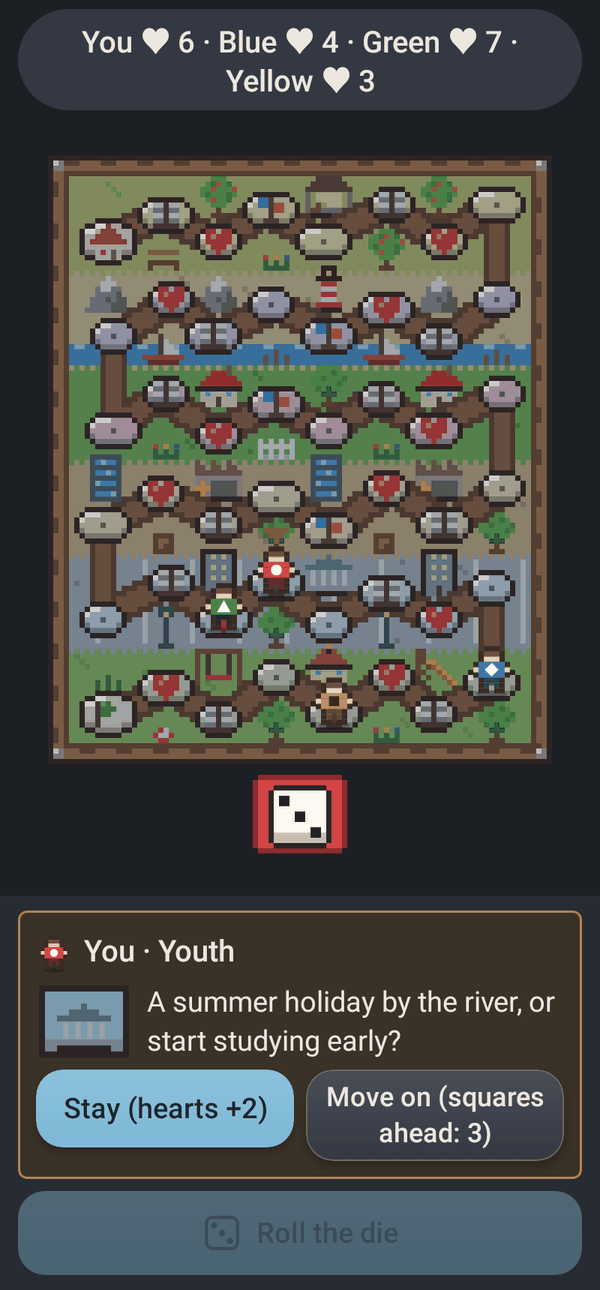
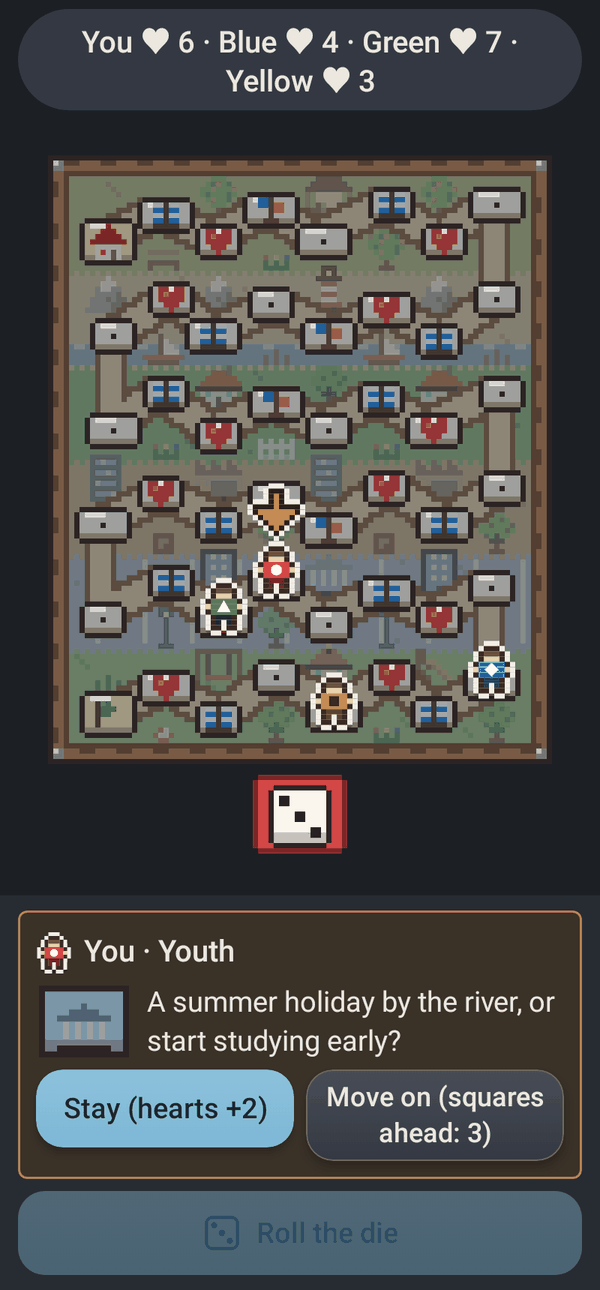
fix(trail): make the board's pawns, path and scenery easy to tell apart (#92)
The scenery steps back, the path and its squares read as one stone trail, pawns get a light outline, and the turn marker is a bold amber arrow that bobs gently, following the Movement setting.

Closes #85

Changed region(s): [[0.12, 0.124, 0.9, 0.5891], [0.12, 0.5271, 0.3, 0.5891], [0.06, 0.7132, 0.12, 0.7752]]

diff --git a/app/src/main/java/io/github/fershibli/megagames/games/trail/TrailPixels.kt b/app/src/main/java/io/github/fershibli/megagames/games/trail/TrailPixels.kt
@@ -4,6 +4,7 @@ import androidx.compose.ui.geometry.Offset
 import androidx.compose.ui.geometry.Size
 import androidx.compose.ui.graphics.Color
 import androidx.compose.ui.graphics.drawscope.DrawScope
+import androidx.compose.ui.graphics.lerp
 import io.github.fershibli.megagames.core.ColorMode
 import io.github.fershibli.megagames.games.ludo.ludoColor
 import io.github.fershibli.megagames.ui.art.PixelArt
@@ -101,20 +102,38 @@ object TrailMap {
 
 private const val INK = "o=3B2A20"
 
-/** The ground of each landscape, from childhood to the quiet years. */
+/**
+ * The ground of each landscape, from childhood to the quiet years. Soft, muted middle tones, so
+ * the light path and the bright pawns stand out on them.
+ */
 private val GROUND = listOf(
-    Color(0xFF9CCC65), // playground grass
-    Color(0xFFB7C4CC), // city pavement
-    Color(0xFFD9C08E), // sandy yard of the workshop
-    Color(0xFF7FBF55), // garden lawn
-    Color(0xFFE6D3A0), // beach sand
-    Color(0xFFC9CF73), // orchard meadow
+    Color(0xFFA3BD86), // playground grass
+    Color(0xFFAAB4BA), // city pavement
+    Color(0xFFC2AE88), // sandy yard of the workshop
+    Color(0xFF93B27E), // garden lawn
+    Color(0xFFCBBE98), // beach sand
+    Color(0xFFB4B883), // orchard meadow
 )
 
-/** The color of the squares of each stage. */
-private val SQUARE_FILL = listOf(
-    Color(0xFFE6F4D2), Color(0xFFD7F0FC), Color(0xFFFFE9C9), Color(0xFFFBD3E1), Color(0xFFE3DAF2), Color(0xFFFFF7B8),
-)
+/**
+ * The path and its squares are one trail of the same pale stone: a walkway with a dark edge, and
+ * the squares as slightly lighter slabs laid on it.
+ */
+private val SLAB_EDGE = Color(0xFF3B2A20)
+private val PATH_EDGE = Color(0xFF8A6A4A)
+private val PATH = Color(0xFFDCC8A2)
+private val SLAB = Color(0xFFFBF4E4)
+private val SLAB_SPECIAL = Color(0xFFFFE7A3)
+
+/** How far the scenery fades into its ground: the pictures stay readable but calm, behind the path. */
+private const val RECEDE = 0.42f
+
+/** [color] made calmer and closer to [ground]: less saturated, less contrast. */
+private fun recede(color: Color, ground: Color): Color {
+    val grey = color.red * 0.3f + color.green * 0.59f + color.blue * 0.11f
+    val calm = lerp(color, Color(grey, grey, grey, color.alpha), 0.35f)
+    return lerp(calm, ground, RECEDE).copy(alpha = color.alpha)
+}
 
 object TrailSprites {
     val heart = pixelArt(
@@ -126,7 +145,7 @@ object TrailSprites {
         "..r..",
     )
     val book = pixelArt(
-        "w=FFFFFF l=9E9E9E s=5D4037",
+        "w=FFFFFF l=1E88E5 s=5D4037",
         "wwsww",
         "llsll",
         "wwsww",
@@ -408,10 +427,11 @@ object TrailSprites {
         "od..do.",
         "oo...oo",
     )
-    private val people = HashMap<Pair<Color, Boolean>, PixelArt>()
+    private val people = HashMap<Triple<Color, Boolean, Color>, PixelArt>()
+    private val halos = HashMap<Pair<PixelArt, Color>, PixelArt>()
 
     fun person(color: Color, walking: Boolean, outline: Color): PixelArt = synchronized(people) {
-        people.getOrPut(color to walking) {
+        people.getOrPut(Triple(color, walking, outline)) {
             val palette = mapOf(
                 'o' to outline, 'h' to Color(0xFF6D4C41), 's' to Color(0xFFF2C29B),
                 'c' to color, 'd' to color.darker(0.45f),
@@ -420,32 +440,51 @@ object TrailSprites {
         }
     }
 
+    /** The outline of [art] in one [color]: drawn a dot around a pawn, it lifts it off the board. */
+    fun halo(art: PixelArt, color: Color): PixelArt = synchronized(halos) {
+        halos.getOrPut(art to color) { art.recolored { color } }
+    }
+
+    /** The arrow over the pawn whose turn it is: bold, with a dark edge, pointing down. */
+    private val ARROW = listOf(
+        "...ooo...",
+        "...oyo...",
+        "...o#o...",
+        "oooo#oooo",
+        "oyyyyyyyo",
+        ".oyy#yyo.",
+        "..oy#yo..",
+        "...oyo...",
+        "....o....",
+    )
+    private val arrows = HashMap<Pair<Color, Color>, PixelArt>()
+
+    fun arrow(fill: Color, edge: Color): PixelArt = synchronized(arrows) {
+        arrows.getOrPut(fill to edge) { pixelArt(ARROW, mapOf('o' to edge, 'y' to fill, '#' to fill.darker(0.18f))) }
+    }
+
+    const val ARROW_W = 9
+    const val ARROW_H = 9
+
     const val PERSON_W = 7
     const val PERSON_H = 9
 }
 
-/** An oval square of the path, built once per size and color. */
-private val ovals = HashMap<String, PixelArt>()
+/** A square of the path: a stone slab with rounded corners, built once per size and color. */
+private val slabs = HashMap<String, PixelArt>()
 
-private fun oval(w: Int, h: Int, fill: Color, rim: Color, shade: Color, shine: Color): PixelArt {
+private fun slab(w: Int, h: Int, fill: Color, rim: Color, shade: Color, shine: Color): PixelArt {
     val key = "$w $h ${fill.value} ${rim.value}"
-    return synchronized(ovals) {
-        ovals.getOrPut(key) {
-            val inside = Array(h) { y ->
-                BooleanArray(w) { x ->
-                    val dx = (x + 0.5f - w / 2f) / (w / 2f)
-                    val dy = (y + 0.5f - h / 2f) / (h / 2f)
-                    dx * dx + dy * dy <= 1.08f
-                }
-            }
-            fun at(x: Int, y: Int) = x in 0 until w && y in 0 until h && inside[y][x]
+    return synchronized(slabs) {
+        slabs.getOrPut(key) {
+            fun corner(x: Int, y: Int) = (x == 0 || x == w - 1) && (y == 0 || y == h - 1)
             val rows = List(h) { y ->
                 String(CharArray(w) { x ->
                     when {
-                        !at(x, y) -> '.'
-                        !at(x - 1, y) || !at(x + 1, y) || !at(x, y - 1) || !at(x, y + 1) -> 'o'
-                        !at(x, y + 2) -> 'd'
-                        !at(x, y - 2) && x < w / 2 -> 'l'
+                        corner(x, y) -> '.'
+                        x == 0 || x == w - 1 || y == 0 || y == h - 1 -> 'o'
+                        y == h - 2 -> 'd'
+                        y == 1 && x in 2..w / 2 -> 'l'
                         else -> 'f'
                     }
                 })
@@ -453,6 +492,13 @@ private fun oval(w: Int, h: Int, fill: Color, rim: Color, shade: Color, shine: C
             pixelArt(rows, mapOf('o' to rim, 'f' to fill, 'd' to shade, 'l' to shine))
         }
     }
+}
+
+/** Scenery pictures faded into the ground of their landscape (see [recede]), built once each. */
+private val receded = HashMap<Pair<PixelArt, Int>, PixelArt>()
+
+private fun recededArt(art: PixelArt, stage: Int): PixelArt = synchronized(receded) {
+    receded.getOrPut(art to stage) { art.recolored { recede(it, GROUND[stage]) } }
 }
 
 // ---------------------------------------------------------------------------------------------
@@ -509,12 +555,13 @@ fun DrawScope.drawTrailBoard(v: TrailView, p: Palette) {
     val w = TrailMap.WIDTH
     val h = TrailMap.HEIGHT
     val f = TrailMap.FRAME
-    // Landscapes, from the bottom up, each with a ragged edge into the next one.
+    // Three layers, from the back: the landscapes (muted, low contrast), the path with its
+    // squares (pale stone with a dark edge) and, drawn later, the pawns (bright, with a light halo).
     for (stage in Stage.entries.indices) {
         val top = TrailMap.bandTop(stage)
         val ground = groundOf(stage, p)
         dots(v, f, top, w - 2 * f, TrailMap.BAND, ground)
-        val speck = ground.darker(0.12f)
+        val speck = ground.darker(0.07f)
         for (n in 0 until 16) {
             val x = f + 1 + (n * 37 + stage * 11) % (w - 2 * f - 2)
             val y = top + 1 + (n * 7 + stage * 5) % (TrailMap.BAND - 2)
@@ -522,12 +569,12 @@ fun DrawScope.drawTrailBoard(v: TrailView, p: Palette) {
         }
         if (stage == 4) {
             // The sea along the bottom of the travel band, with little waves.
-            dots(v, f, top + 14, w - 2 * f, 4, c.water)
-            for (x in f + 1 until w - f step 6) dots(v, x, top + 14, 2, 1, c.waterLight)
+            dots(v, f, top + 14, w - 2 * f, 4, recede(c.water, ground))
+            for (x in f + 1 until w - f step 6) dots(v, x, top + 14, 2, 1, recede(c.waterLight, ground))
         }
         if (stage == 1) {
             // The pavement of the city, in slabs.
-            val line = ground.lighter(0.25f)
+            val line = ground.lighter(0.12f)
             for (x in f + 5 until w - f step 9) dots(v, x, top + 1, 1, TrailMap.BAND - 2, line)
         }
         if (stage < Stage.entries.size - 1) {
@@ -535,32 +582,34 @@ fun DrawScope.drawTrailBoard(v: TrailView, p: Palette) {
             for (x in f until w - f step 2) dots(v, x, top, 1, 1, above)
         }
     }
-    // The pictures of each landscape, in the corners the path leaves free.
+    // The pictures of each landscape, in the corners the path leaves free, faded into the ground.
     for (stage in Stage.entries.indices) for (col in 0 until TrailMap.PER_BAND) {
         val (x, bottom) = TrailMap.pocket(stage, col) ?: continue
         val art = TrailSprites.scenery[stage][col]
         if (art != null) {
-            standing(v, art, x, bottom, p)
+            standing(v, recededArt(art, stage), x, bottom, p)
         } else {
-            val tuft = groundOf(stage, p).darker(0.3f)
+            val tuft = groundOf(stage, p).darker(0.15f)
             dots(v, x - 2, bottom - 2, 1, 2, tuft)
             dots(v, x, bottom - 3, 1, 3, tuft)
             dots(v, x + 2, bottom - 2, 1, 2, tuft)
         }
     }
-    // The path: a dirt road under the squares.
+    // The path: a pale stone walkway with a dark edge, the same stone as the squares.
     val points = TrailMap.POINTS
-    for (i in 0 until Trail.FINISH) road(v, points[i], points[i + 1], 5, c.soilDark)
-    for (i in 0 until Trail.FINISH) road(v, points[i], points[i + 1], 3, c.soil)
-    // The squares, each with its mark.
-    val rim = if (p.strongOutlines) Color.Black else c.outline
+    val rim = if (p.strongOutlines) Color.Black else PixelColors.adapt(SLAB_EDGE, p)
+    val edge = if (p.strongOutlines) Color.Black else PixelColors.adapt(PATH_EDGE, p)
+    val path = PixelColors.adapt(PATH, p)
+    for (i in 0 until Trail.FINISH) road(v, points[i], points[i + 1], 6, edge)
+    for (i in 0 until Trail.FINISH) road(v, points[i], points[i + 1], 4, path)
+    // The squares: lighter slabs laid on the walkway, each with its mark.
     for (i in 0 until Trail.SQUARES) {
         val (x, y) = points[i]
         val (sw, sh) = TrailMap.squareSize(i)
         val special = i == 0 || i == Trail.FINISH
-        val fill = PixelColors.adapt(if (special) Color(0xFFFFF8E1) else SQUARE_FILL[Trail.stage(i).ordinal], p)
+        val fill = PixelColors.adapt(if (special) SLAB_SPECIAL else SLAB, p)
         // Already in the palette's colors: drawn as they are.
-        oval(sw, sh, fill, rim, fill.darker(0.18f), fill.lighter(0.5f)).draw(this, v.left + (x - sw / 2) * v.px, v.top + (y - sh / 2) * v.px, v.px)
+        slab(sw, sh, fill, rim, path.darker(0.08f), fill.lighter(0.6f)).draw(this, v.left + (x - sw / 2) * v.px, v.top + (y - sh / 2) * v.px, v.px)
         val mark = when (Trail.square(i)) {
             Square.HEART -> TrailSprites.heart
             Square.STORY -> TrailSprites.book
@@ -572,7 +621,7 @@ fun DrawScope.drawTrailBoard(v: TrailView, p: Palette) {
         if (mark != null) {
             sprite(v, mark, (x - mark.width / 2).toFloat(), (y - mark.height / 2).toFloat(), p)
         } else {
-            dots(v, x, y, 1, 1, fill.darker(0.35f))
+            dots(v, x, y, 1, 1, rim)
         }
     }
     drawFrame(v, p, c)
@@ -615,12 +664,15 @@ private fun DrawScope.drawFrame(v: TrailView, p: Palette, c: PixelColors) {
 /** The symbol of each pawn color (Ludo's), so color is never the only cue. */
 private val SYMBOLS = intArrayOf(0, 2, 1, 3)
 
+/** The arrow's own color: a warm amber that reads on light and dark landscapes alike. */
+private val ARROW_FILL = Color(0xFFFFB300)
+
 /**
  * A pawn: a little person of color [color] (a Ludo color index) standing with its feet at
- * [foot], [scale] times the board's dots. [hop] lifts it while it walks; [turn] puts an arrow
- * over its head.
+ * [foot], [scale] times the board's dots. [hop] lifts it while it walks; [turn] puts a bold arrow
+ * over its head, raised by [bob] dots (the arrow's gentle up-and-down, 0 when movement is off).
  */
-fun DrawScope.drawTrailPerson(v: TrailView, foot: Offset, p: Palette, color: Int, scale: Float = 1f, walking: Boolean = false, turn: Boolean = false) {
+fun DrawScope.drawTrailPerson(v: TrailView, foot: Offset, p: Palette, color: Int, scale: Float = 1f, walking: Boolean = false, turn: Boolean = false, bob: Float = 0f) {
     val px = v.px * scale
     val outline = if (p.strongOutlines) Color.Black else Color(0xFF3B2A20)
     val fill = ludoColor(p, color)
@@ -628,16 +680,28 @@ fun DrawScope.drawTrailPerson(v: TrailView, foot: Offset, p: Palette, color: Int
     val left = foot.x - TrailSprites.PERSON_W * px / 2
     val top = foot.y - TrailSprites.PERSON_H * px
     // A soft shadow on the ground.
-    drawOval(Color.Black.copy(alpha = 0.22f), Offset(foot.x - 3 * px, foot.y - px * 0.6f), Size(6 * px, px * 1.4f))
+    drawOval(Color.Black.copy(alpha = 0.3f), Offset(foot.x - 3.5f * px, foot.y - px * 0.7f), Size(7 * px, px * 1.6f))
+    // A light halo a dot around the figure, so the pawn stands out from the board behind it.
+    val haloColor = if (p.isDark && !p.strongOutlines) Color(0xFFF2EEE6) else Color.White
+    val halo = TrailSprites.halo(art, haloColor)
+    halo.draw(this, left - px, top, px)
+    halo.draw(this, left + px, top, px)
+    halo.draw(this, left, top - px, px)
+    halo.draw(this, left, top + px, px)
     art.draw(this, left, top, px)
     val mark = if (fill.red * 0.3f + fill.green * 0.59f + fill.blue * 0.11f > 0.5f) Color.Black.copy(alpha = 0.75f) else Color.White
     drawSymbol(SYMBOLS[color], Offset(foot.x, top + 4.5f * px), px * 2.6f, mark)
     if (turn) {
-        val arrow = p.highlight
-        val y = top - 3.5f * px
-        drawRect(arrow, Offset(foot.x - 2.5f * px, y), Size(5 * px, px))
-        drawRect(arrow, Offset(foot.x - 1.5f * px, y + px), Size(3 * px, px))
-        drawRect(arrow, Offset(foot.x - 0.5f * px, y + 2 * px), Size(px, px))
+        val fillColor = if (p.mode == ColorMode.HIGH_CONTRAST) p.highlight else ARROW_FILL
+        val arrow = TrailSprites.arrow(fillColor, if (p.strongOutlines) Color.Black else Color(0xFF2B1D14))
+        val arrowTop = top - (TrailSprites.ARROW_H + 2f) * px - kotlin.math.round(bob * px)
+        val arrowLeft = foot.x - TrailSprites.ARROW_W * px / 2
+        val ring = TrailSprites.halo(arrow, haloColor)
+        ring.draw(this, arrowLeft - px, arrowTop, px)
+        ring.draw(this, arrowLeft + px, arrowTop, px)
+        ring.draw(this, arrowLeft, arrowTop - px, px)
+        ring.draw(this, arrowLeft, arrowTop + px, px)
+        arrow.draw(this, arrowLeft, arrowTop, px)
     }
 }
 

diff --git a/app/src/main/java/io/github/fershibli/megagames/games/trail/TrailGame.kt b/app/src/main/java/io/github/fershibli/megagames/games/trail/TrailGame.kt
@@ -18,7 +18,12 @@ import androidx.compose.material3.MaterialTheme
 import androidx.compose.material3.Text
 import androidx.compose.runtime.Composable
 import androidx.compose.animation.core.Animatable
+import androidx.compose.animation.core.FastOutSlowInEasing
 import androidx.compose.animation.core.LinearEasing
+import androidx.compose.animation.core.RepeatMode
+import androidx.compose.animation.core.animateFloat
+import androidx.compose.animation.core.infiniteRepeatable
+import androidx.compose.animation.core.rememberInfiniteTransition
 import androidx.compose.animation.core.tween
 import androidx.compose.runtime.LaunchedEffect
 import androidx.compose.runtime.mutableStateListOf
@@ -60,6 +65,7 @@ import io.github.fershibli.megagames.ui.theme.LocalSettings
 import io.github.fershibli.megagames.core.Motion
 import io.github.fershibli.megagames.ui.theme.currentMotion
 import io.github.fershibli.megagames.ui.theme.currentPace
+import io.github.fershibli.megagames.ui.theme.swing
 import io.github.fershibli.megagames.ui.theme.wait
 import kotlin.random.Random
 
@@ -77,6 +83,10 @@ private const val END_PAUSE = 1200L
 private const val HOP = 300L
 private const val TUMBLE = 90L
 private const val TUMBLES = 7
+
+/** The turn arrow's slow up-and-down: one way in this many milliseconds, by this many dots. */
+private const val BOB = 900
+private const val BOB_DOTS = 2f
 
 /** Pawn colors by seat (Ludo's red, blue, green and yellow), each with its own symbol. */
 private val SEAT_COLORS = intArrayOf(0, 3, 1, 2)
@@ -110,6 +120,12 @@ private fun TrailScreen(state: MutableState<TrailState>, host: GameHost) {
     var tumble by remember { mutableIntStateOf(0) }
     var hopFrom by remember { mutableStateOf<List<Int>?>(null) }
     val hop = remember { Animatable(0f) }
+    // The arrow over the pawn to play bobs gently, slower with gentle movement and still when off.
+    val bob = rememberInfiniteTransition(label = "trail-arrow").animateFloat(
+        0f, motion.swing(BOB_DOTS),
+        infiniteRepeatable(tween((BOB * motion.duration).toInt().coerceAtLeast(1), easing = FastOutSlowInEasing), RepeatMode.Reverse),
+        label = "bob",
+    )
     LaunchedEffect(s.die, s.positions) {
         hopFrom = null
         if (s.die != 0 && seenDie == 0 && motion != Motion.NONE) {
@@ -224,7 +240,7 @@ private fun TrailScreen(state: MutableState<TrailState>, host: GameHost) {
                     feet += seat to hopFoot(v, a, b.coerceIn(0, Trail.FINISH), hop.value)
                 }
                 for ((seat, foot) in feet.sortedBy { it.second.y }) {
-                    drawTrailPerson(v, foot, p, SEAT_COLORS[seat], pawnScale, walking = seat in walking && hop.value in 0.25f..0.75f, turn = seat == s.turn && !s.over)
+                    drawTrailPerson(v, foot, p, SEAT_COLORS[seat], pawnScale, walking = seat in walking && hop.value in 0.25f..0.75f, turn = seat == s.turn && !s.over, bob = bob.value)
                 }
                 // The die, under the board, on a mat of the color of the seat to play.
                 val face = if (tumble != 0) kotlin.math.abs(tumble) else s.die.takeIf { it > 0 } ?: 1

diff --git a/app/src/test/java/io/github/fershibli/megagames/ScreenshotTest.kt b/app/src/test/java/io/github/fershibli/megagames/ScreenshotTest.kt
@@ -332,6 +332,7 @@ class ScreenshotTest {
     @Test fun trail() = shot("game_trail") { GameContent(GameId.TRAIL, trailHost()) }
     @Test fun trailPt() = shot("game_trail_pt", Settings(language = io.github.fershibli.megagames.core.AppLanguage.PORTUGUESE)) { GameContent(GameId.TRAIL, trailHost(choice = true)) }
     @Test fun trailDark() = shot("game_trail_dark", Settings(darkMode = true)) { GameContent(GameId.TRAIL, trailHost(choice = true)) }
+    @Test fun trailHighContrast() = shot("game_trail_high_contrast", Settings(colorMode = io.github.fershibli.megagames.core.ColorMode.HIGH_CONTRAST)) { GameContent(GameId.TRAIL, trailHost()) }
 
     /** Four pawns along the way, with a story (or a crossroads) waiting for you. */
     private fun trailHost(choice: Boolean = false): GameHost {

diff --git a/CHANGELOG.md b/CHANGELOG.md
@@ -83,6 +83,7 @@ All notable changes to this project are documented here. The format follows [Kee
 - **Farm in pixel art**: the field and the animals are now one isometric pixel-art farm, with the house, the barn, trees, a lane, the fenced paddock, and a sky with clouds and a sun (a moon and stars in dark mode). Crops show how far they have grown, ripe ones sparkle, a drop marks the beds that can be watered and a bubble shows what each animal has waiting. Tap a bed or an animal as before; pinch to see the farm bigger. Orders and the barn use the same pixel pictures.
 - Pastimes (the pet, the farm) no longer clear the game in progress, and their settings have no "New game".
 - The app is now called **Mili Games** and its package is `io.github.fershibli.miligames`. Android sees it as a different app: uninstall the previous version (the saved game is lost once) and install this one; later versions update normally. The release key is the same.
+- **Life trail is easier to read**: the board now has three clear layers. The landscapes are calmer and softer, so they stay in the background; the path and its squares are one pale stone trail with a dark edge, the squares as lighter slabs on it; and the pawns are bright with a white outline that lifts them off the board. The arrow over the pawn whose turn it is is bigger, amber with a dark edge, and gently bobs up and down (it stays still when animations are off).
 
 ### Fixed
 - **Farm: a new bed can no longer leave the farm stuck.** Buying one now asks first, with a picture of a bed growing from bare soil to the harvest, and needs something already sown, so there is always a harvest to sell; the new bed blinks for a few seconds to show where it went. A farm already left with nothing to sow, sell or collect gets the coins for one seed.
